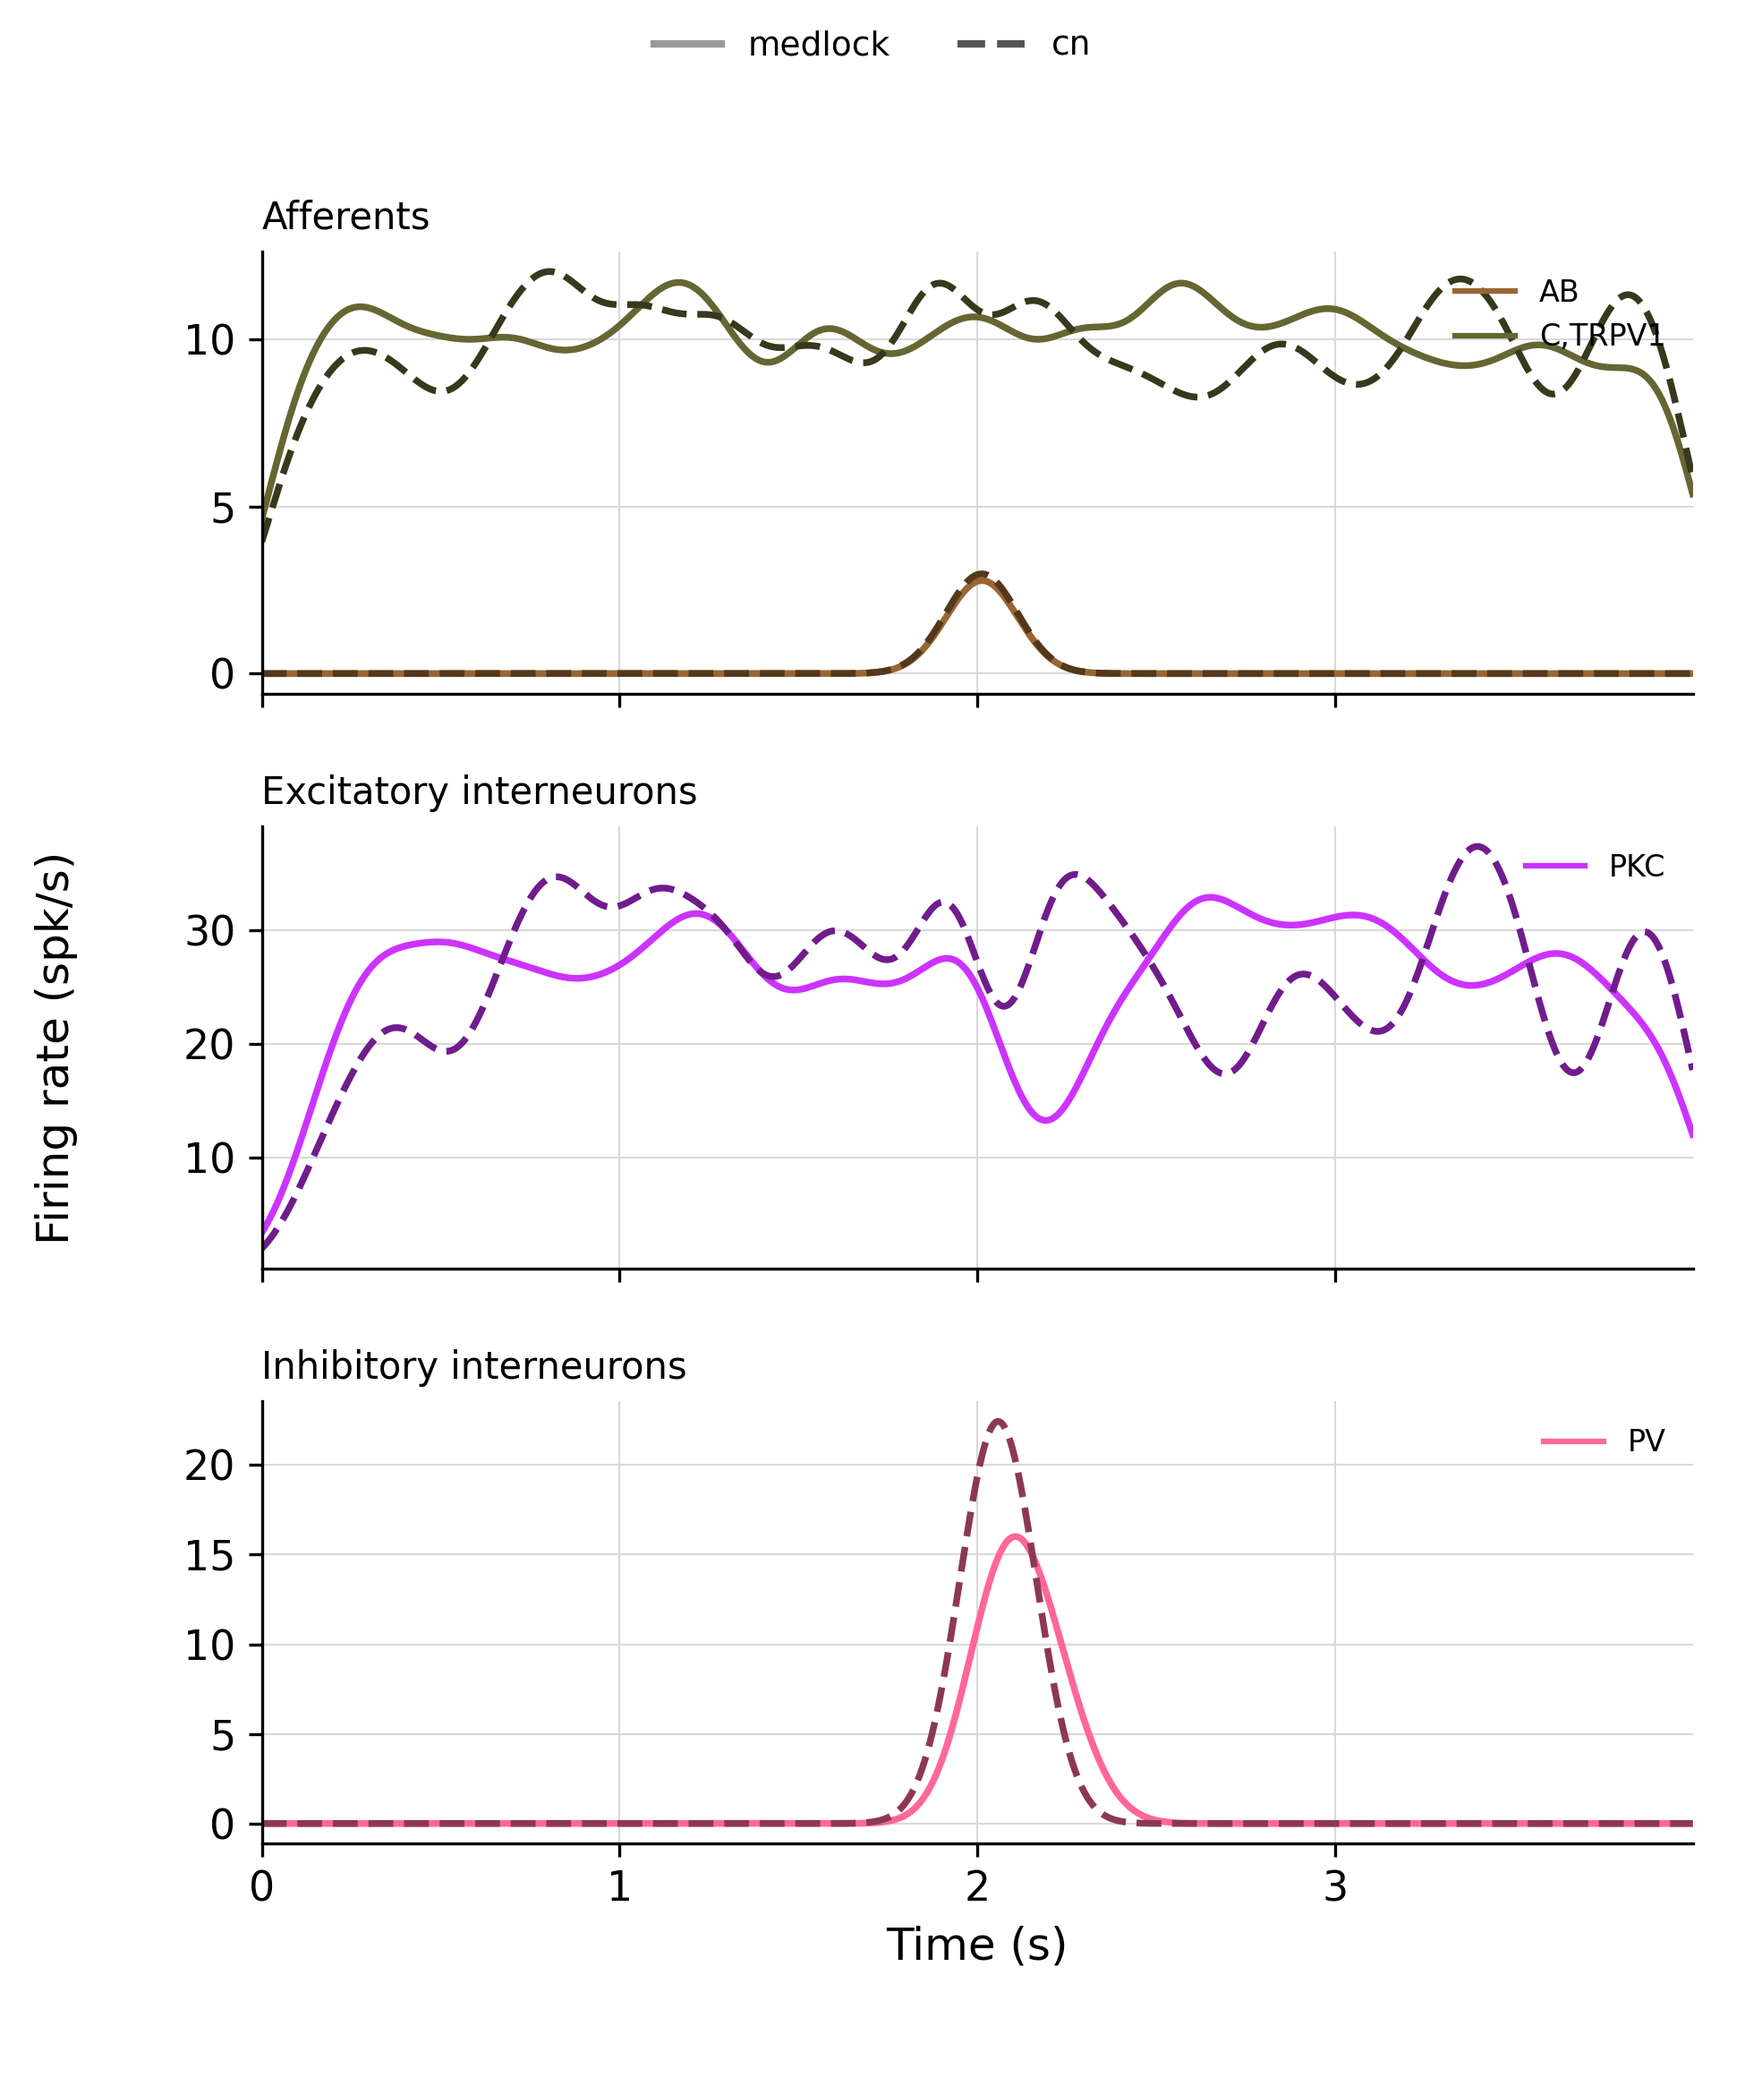
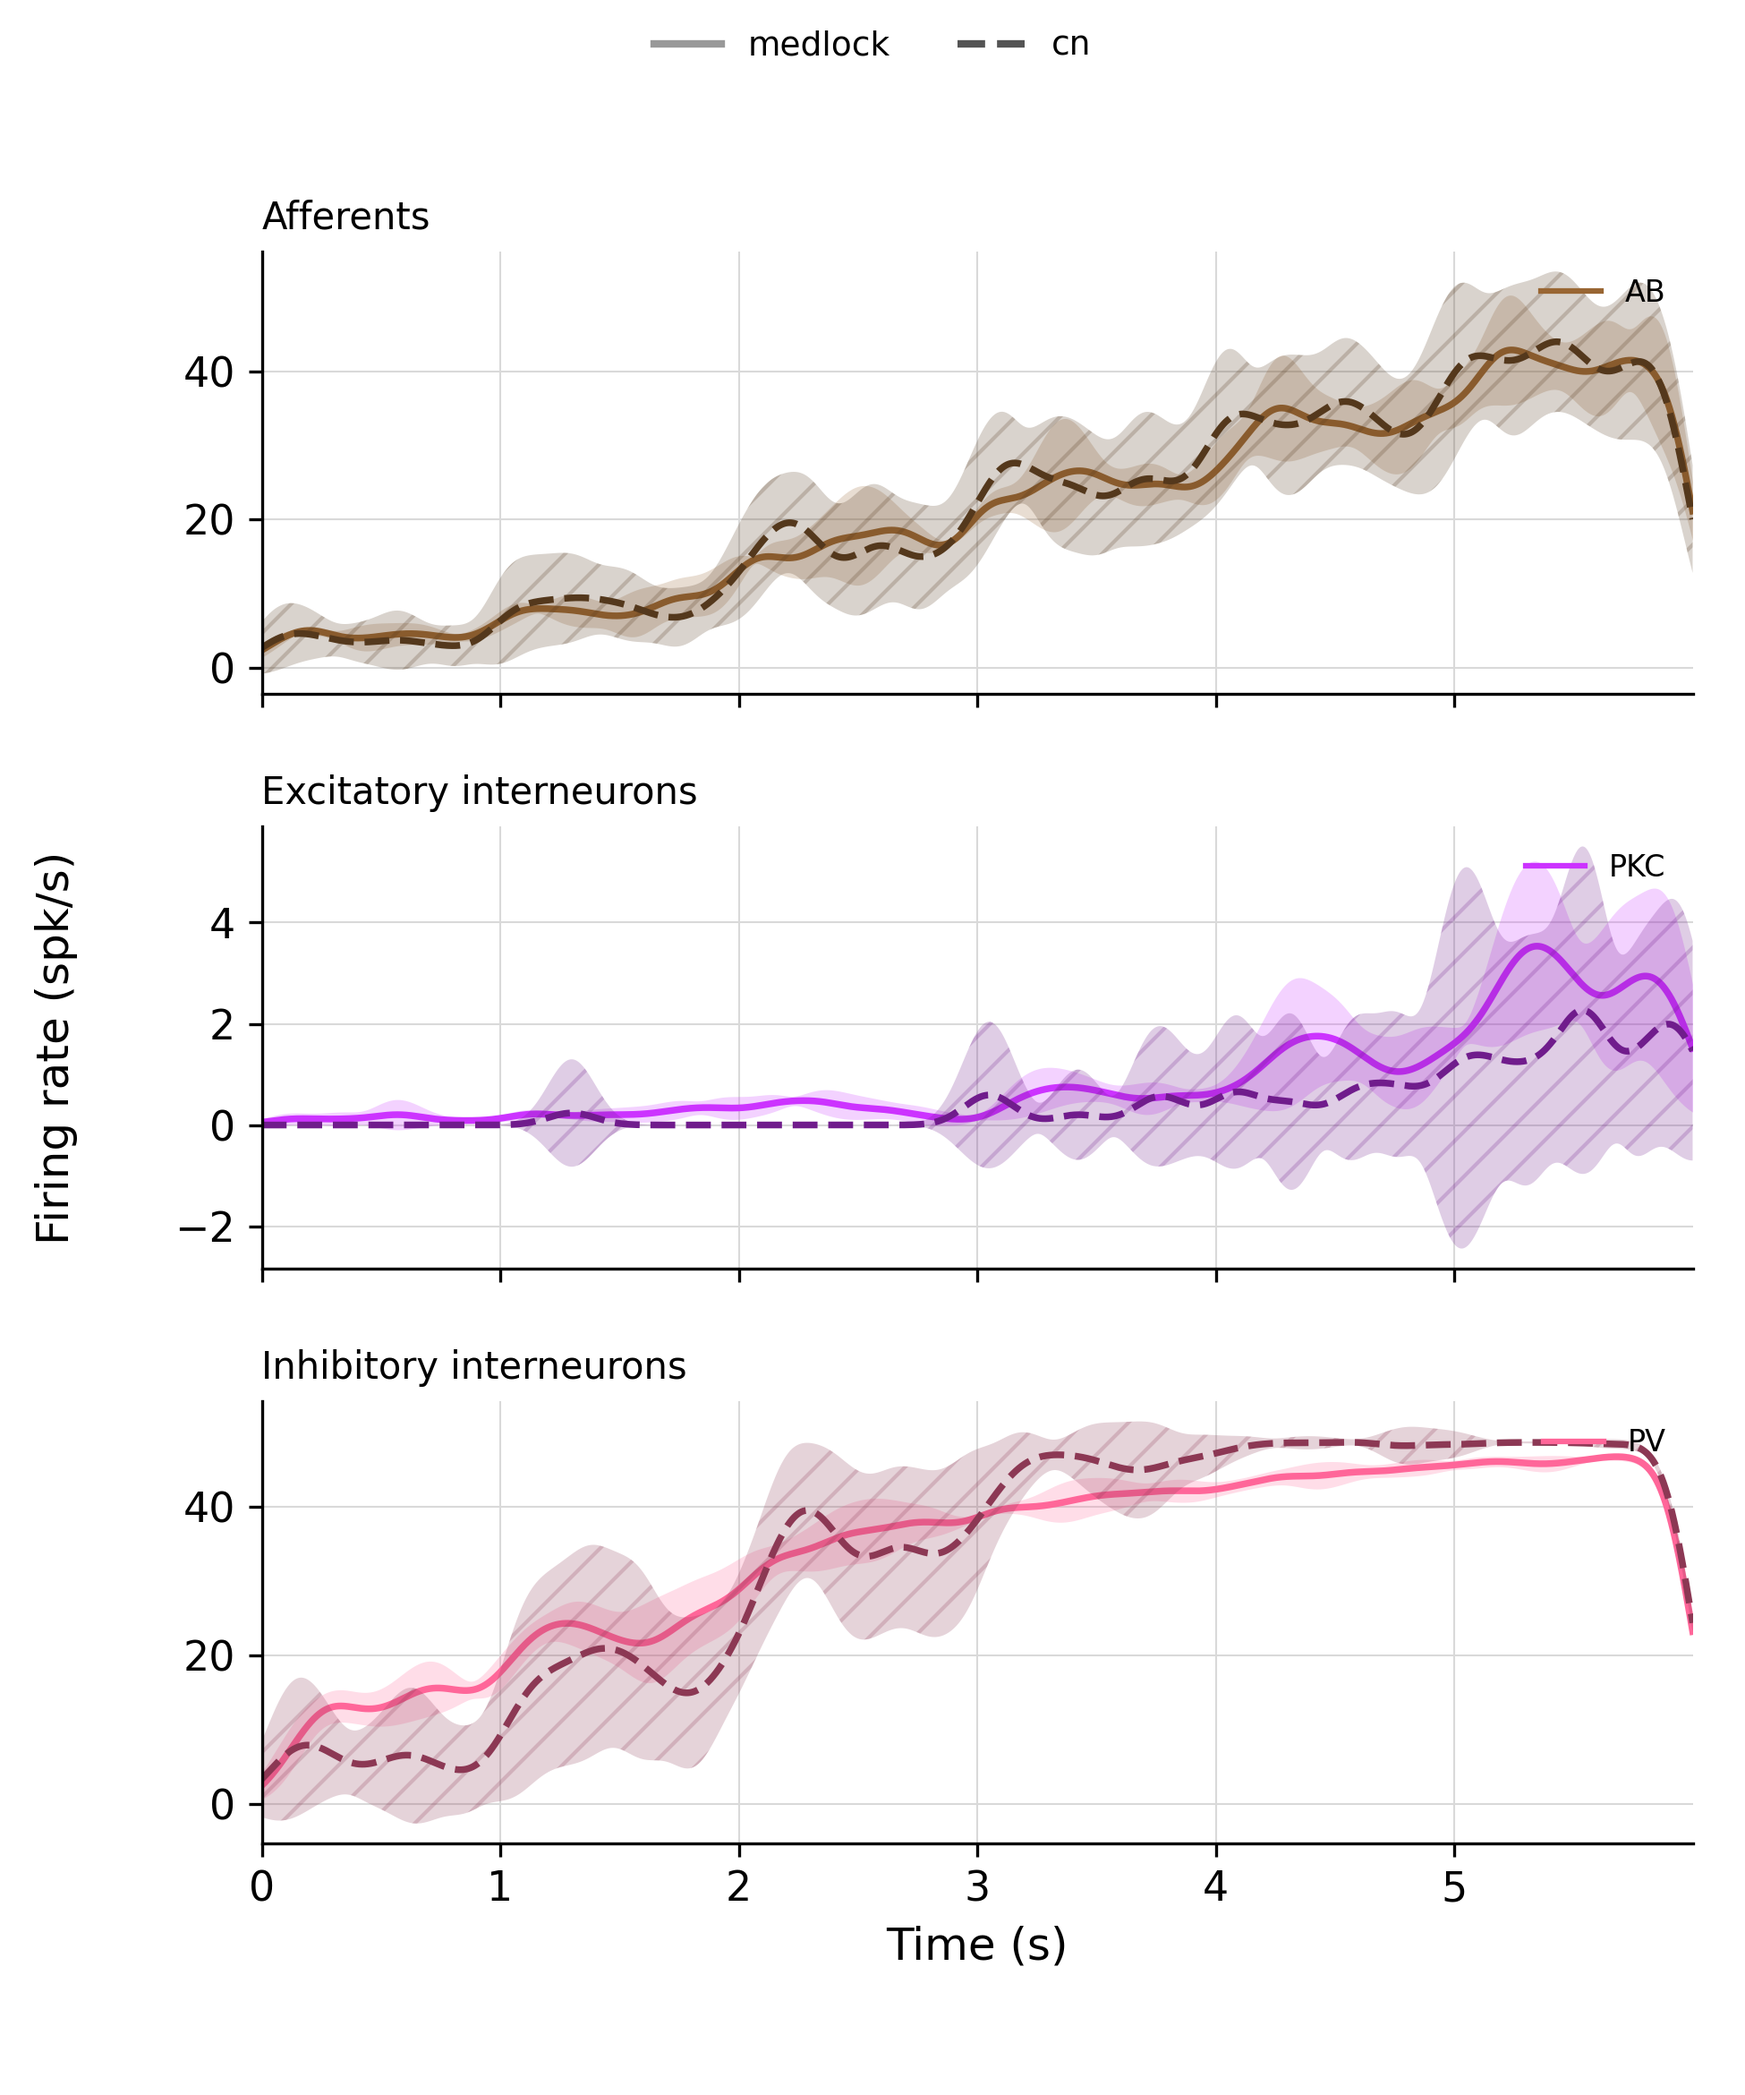
updates with PV, PKC, AB synapse fitting

diff --git a/Helper Scripts & misc. (must remove from folder to use)/FRHcode/plot_frhs.py b/Helper Scripts & misc. (must remove from folder to use)/FRHcode/plot_frhs.py
@@ -68,6 +68,14 @@ Examples
         --trials2 data/Circuit_Trial_run*_data.json --trials2-label cn \
         --autoscale --out medlock_vs_cn_frh.png
 
+    UPDATE 10/8/26 FOR SUMMING OF AFFERENT FIBERS AND FRACTION FOR MEDLOCK AFFERENTS
+    
+    python3 plot_frhs.py --no-baseline \
+    --trials data/Circuit_Trial_Medlock_run*_data.json --trials-label medlock \
+    --trials-fraction 0.2 \
+    --trials2 data/Circuit_Trial_run*_data.json --trials2-label cn \
+    --autoscale --out medlock_vs_cn_frh.png
+
 
 
 '''
@@ -86,7 +94,7 @@ from matplotlib.lines import Line2D
 
 # ---------------------------------------------------------------- constants --
 
-END_TIME = 4.0     # s, simulated duration (EndTime in FiringRateHist.m)
+END_TIME = 6.0     # s, simulated duration (EndTime in FiringRateHist.m)
 RES      = 0.025   # ms, sampling resolution of simData.t
 KWID     = 100.0   # ms, Gaussian kernel sigma (kWid in FiringRateHist.m)
 
@@ -157,6 +165,11 @@ SUBPLOT_YTICK  = [[0, 25, 50], [0, 50, 100, 150], [0, 25, 50, 75], [0, 25, 50]]
 # pops (above) aren't all present. E.g. some sim configs never split Ab into
 # SAI/SAII and just save a single 'Ab' population.
 GROUP_ALT_POPS = {'AB': ['Ab']}
+
+# Groups whose spikes are summed across all cells into one combined spike
+# train (as a downstream synapse would receive them), smoothed once, and
+# reported as the TOTAL rate rather than the per-cell average.
+SUMMED_GROUPS = {'AB', 'C,TRPV1'}
 
 
 def resolve_pops(name, pops, have):
@@ -298,19 +311,32 @@ def kernel_psth(psth, g):
     trimmed = full[half - 1: len(full) - half + 1]
     return trimmed[:len(psth)]
 
+    '''Return (trace, n_cells, mean_rate) for one group of populations.
 
-def compute_trace(spkt, spkid, gids, t, g, end_time=END_TIME):
+    summed=False: binarized PSTH, scaled to the mean per-cell rate
+                  (original Medlock pipeline).
+    summed=True : every spike from every cell counted (coincident spikes
+                  kept), smoothed once, scaled to the TOTAL rate of all
+                  cells combined.
+    '''
+def compute_trace(spkt, spkid, gids, t, g, end_time=END_TIME, summed=False, fraction=1.0):
     '''Return (trace, n_cells, mean_rate) for one group of populations.'''
     times = spkt[np.isin(spkid, gids)]
-
     counts, _ = np.histogram(np.sort(times), bins=t)
-    psth = (counts > 0).astype(float)          # PSTH_.m binarisation
+    
+    if summed:
+        psth = counts.astype(float)                # keep every spike
+    else:
+        psth = (counts > 0).astype(float)          # PSTH_.m binarisation
 
     k = kernel_psth(psth, g)
     k[np.isnan(k)] = 0.0
 
     n_cells = len(gids)
-    fr_neuron = psth.sum() / end_time / n_cells   # spk/s per neuron
+    denom = 1 if summed else n_cells
+    fr_neuron = psth.sum() / end_time / denom   # spk/s per neuron
+    if summed:
+        fr_neuron *= fraction
     mk = k.mean()
     scale = fr_neuron / mk if (mk != 0.0 and np.isfinite(mk)) else 0.0
     if not np.isfinite(scale):
@@ -343,6 +369,17 @@ def main():
     ap.add_argument('--trials2-label', default=None,
                     help='legend label for the second trial-average line '
                          '(default: "trial avg 2 (n=N)")')
+
+    for flag, what in [('--baseline-fraction', 'the baseline'),
+                       ('--data-fraction',     'every --data file'),
+                       ('--trials-fraction',   'the --trials files'),
+                       ('--trials2-fraction',  'the --trials2 files')]:
+        ap.add_argument(flag, type=float, default=1.0,
+                        help='multiply summed groups (%s) by this for %s, '
+                             'e.g. 0.2 for a 20%% connection probability '
+                             '(default 1.0 = full total)'
+                             % (', '.join(sorted(SUMMED_GROUPS)), what))
+    
     ap.add_argument('--baseline', default=BASELINE,
                     help='reference run, always plotted solid (default: %s)'
                          % BASELINE)
@@ -387,7 +424,7 @@ def main():
         plan.append((args.baseline,
                      args.baseline_label
                      or '%s (baseline)' % run_label(args.baseline),
-                     BASELINE_STYLE))
+                     BASELINE_STYLE, args.baseline_fraction))
 
     for i, path in enumerate(args.data):
         if not args.no_baseline and \
@@ -396,8 +433,7 @@ def main():
             continue
         plan.append((path,
                      args.labels[i] if args.labels else run_label(path),
-                     COMPARE_STYLES[i % len(COMPARE_STYLES)]))
-
+                     COMPARE_STYLES[i % len(COMPARE_STYLES)], args.data_fraction))
     if not plan and not args.trials and not args.trials2:
         print('ERROR: no runs to plot -- pass files to --data, --trials, '
               'or --trials2', file=sys.stderr)
@@ -405,7 +441,7 @@ def main():
 
     # ---- load every run ---------------------------------------------------
     runs = []
-    for path, label, style in plan:
+    for path, label, style, frac in plan:
         try:
             spkt, spkid, t, gid_map, labels = load_sim(path)
         except RuntimeError as err:
@@ -432,6 +468,7 @@ def main():
             'gids':  gid_map,
             'have':  have,
             'style': style,
+            'frac':  frac,
         })
 
     # ---- load every trial file (repeated trials of ONE condition) ---------
@@ -605,7 +642,7 @@ def main():
                 continue
             gids = np.concatenate([r['gids'][p] for p in use_pops])
             trace, n_cells, mean_rate = compute_trace(
-                r['spkt'], r['spkid'], gids, r['t'], g, args.end_time)
+                r['spkt'], r['spkid'], gids, r['t'], g, args.end_time, summed=(name in SUMMED_GROUPS), fraction=r['frac'])
             print('%-14s %-9s %5d %12.3f %12.3f'
                   % (r['label'], name, n_cells, mean_rate, trace.max()))
 
@@ -625,7 +662,7 @@ def main():
                     continue
                 gids = np.concatenate([tr['gids'][p] for p in use_pops])
                 trace, n_cells, mean_rate = compute_trace(
-                    tr['spkt'], tr['spkid'], gids, tr['t'], g, args.end_time)
+                    tr['spkt'], tr['spkid'], gids, tr['t'], g, args.end_time, summed=(name in SUMMED_GROUPS),  fraction=args.trials_fraction)
                 traces.append(trace)
                 mean_rates.append(mean_rate)
 
@@ -660,7 +697,7 @@ def main():
                     continue
                 gids = np.concatenate([tr['gids'][p] for p in use_pops])
                 trace, n_cells, mean_rate = compute_trace(
-                    tr['spkt'], tr['spkid'], gids, tr['t'], g, args.end_time)
+                    tr['spkt'], tr['spkid'], gids, tr['t'], g, args.end_time, summed=(name in SUMMED_GROUPS),  fraction=args.trials2_fraction)
                 traces.append(trace)
                 mean_rates.append(mean_rate)
 

diff --git a/netParams_mechanical_cn.py b/netParams_mechanical_cn.py
@@ -92,16 +92,16 @@ else:
 
 # below used for testing different values of Ab input to make synapse strength
 
-spkt_Ab_testing_30 = make_poisson_pop(rate=25, n_cells=_nAb, t_start=0, t_stop=2000, seed_base=_seed*30)
-spkt_Ab_testing_20 = make_poisson_pop(rate=20, n_cells=_nAb, t_start=2000, t_stop=4000, seed_base=_seed*20)
-spkt_Ab_testing_10 = make_poisson_pop(rate=15, n_cells=_nAb, t_start=4000, t_stop=6000, seed_base=_seed*10)
-spkt_Ab_testing_5 = make_poisson_pop(rate=10, n_cells=_nAb, t_start=6000, t_stop=8000, seed_base=_seed*5)
-spkt_Ab_testing_2 = make_poisson_pop(rate=5, n_cells=_nAb, t_start=8000, t_stop=10000, seed_base=_seed*2)
-spkt_Ab_testing_1 = make_poisson_pop(rate=2, n_cells=_nAb, t_start=10000, t_stop=12000, seed_base=_seed*2)
+spkt_Ab_testing_30 = make_poisson_pop(rate=1, n_cells=_nAb, t_start=0, t_stop=1000, seed_base=_seed*30)
+spkt_Ab_testing_20 = make_poisson_pop(rate=2, n_cells=_nAb, t_start=1000, t_stop=2000, seed_base=_seed*20)
+spkt_Ab_testing_10 = make_poisson_pop(rate=4, n_cells=_nAb, t_start=2000, t_stop=3000, seed_base=_seed*10)
+spkt_Ab_testing_5 = make_poisson_pop(rate=6, n_cells=_nAb, t_start=3000, t_stop=4000, seed_base=_seed*5)
+spkt_Ab_testing_2 = make_poisson_pop(rate=8, n_cells=_nAb, t_start=4000, t_stop=5000, seed_base=_seed*2)
+spkt_Ab_testing_1 = make_poisson_pop(rate=10, n_cells=_nAb, t_start=5000, t_stop=6000, seed_base=_seed*2)
 
 
-blocks = [spkt_Ab_testing_30, spkt_Ab_testing_20, spkt_Ab_testing_10,
-          spkt_Ab_testing_5, spkt_Ab_testing_2, spkt_Ab_testing_1]
+blocks = [spkt_Ab_testing_1, spkt_Ab_testing_2, spkt_Ab_testing_5,
+          spkt_Ab_testing_10, spkt_Ab_testing_20, spkt_Ab_testing_30]
 spkt_Ab_staircase = [sum(trains, []) for trains in zip(*blocks)]
 
 # moves dictionary from independent script into netParams
@@ -130,11 +130,11 @@ spkt_Ab_pulse_PKC = []
 for i in range(NUM_AB_PULSE):
     spkt_Ab_pulse_PV.append(poisson_generator(rate=AB_FIBER_RATE, t_start=A_START, t_stop=A_END, seed=None).tolist())
     spkt_Ab_pulse_PKC.append(poisson_generator(rate=AB_FIBER_RATE, t_start=A_START, t_stop=A_END, seed=None).tolist())
-netParams.popParams['Ab'] = {'cellModel': 'VecStim', 'numCells': _nAb, 'spkTimes': spkt_Ab_pulse_PV}
+#netParams.popParams['Ab'] = {'cellModel': 'VecStim', 'numCells': _nAb, 'spkTimes': spkt_Ab_pulse_PV}
 #netParams.popParams['Ab_PKC'] = {'cellModel': 'VecStim', 'numCells': _nAb, 'spkTimes': spkt_Ab_pulse_PKC}
 
-#netParams.popParams['Ab'] = {'cellModel': 'VecStim', 'numCells': _nAb, 'spkTimes': spkt_Ab_staircase}
-netParams.popParams['C_PEP'] = {'cellModel': 'VecStim', 'numCells': NUM_C_FIBERS, 'spkTimes': spkt_C}
+netParams.popParams['Ab'] = {'cellModel': 'VecStim', 'numCells': _nAb, 'spkTimes': spkt_Ab_staircase}
+#netParams.popParams['C_PEP'] = {'cellModel': 'VecStim', 'numCells': NUM_C_FIBERS, 'spkTimes': spkt_C}
 #netParams.popParams['C_PEP'] = {'cellModel': 'VecStim', 'numCells': NUM_C_FIBERS, 'spkTimes': spkt_C_pulse}
 netParams.popParams['PV'] = {'cellType': 'IN', 'numCells': 1} # PV+ neurons (inhibitory)
 netParams.popParams['PKC'] = {'cellType': 'EXdl', 'numCells': 1}

diff --git a/cfg_mechanical_cn.py b/cfg_mechanical_cn.py
@@ -9,7 +9,7 @@ cfg = specs.SimConfig()
 
 cfg.hParams = {'celsius': 36, 'v_init': -60}
 cfg.vrest = cfg.hParams['v_init']
-cfg.duration = 4000
+cfg.duration = 6000
 
 cfg.recordStep = 0.025#25#0.025
 cfg.dt = 0.025
@@ -25,7 +25,7 @@ cfg.abInputMode = 'physiological'  # 'physiological' = SAI/SAII rate curves (def
                                     # 'poisson' = homogeneous rate-controlled drive (set by poisson_sweep.py)
  
 
-EX_SCALE = 0.17 #0.23       #  Ab -> Ex synaptic weights
+EX_SCALE = 0.195 #0.23       #  Ab -> Ex synaptic weights
 IN_SCALE = 0.4        #  Ab -> IN synaptic weights
 PV_PKC_SCALE = 0.016 #0.024  #  PV -> PKC synaptic weights
 
@@ -68,9 +68,9 @@ cfg.saveDataInclude = ['simData', 'simConfig', 'netParams', 'net']
 
 # Analysis and Plotting 
 cells = [x for x in range(0, 11, 1)]
-cfg.analysis['plotRaster'] = {'include': ['all'], 'timeRange': [0, cfg.duration],'orderInverse': True, 'saveFig': True, 'showFig': True} 
+#cfg.analysis['plotRaster'] = {'include': ['all'], 'timeRange': [0, cfg.duration],'orderInverse': True, 'saveFig': True, 'showFig': True} 
 #cfg.analysis['plotConn'] = {'includePre': ['all'], 'includePost': ['all'], 'feature': 'weight','logPlot': True, 'saveFig': True, 'showFig': True}
 # cfg.analysis['plotSpikeHist'] = {'include': ['eachPop'], 'timeRange': [0,cfg.duration], 'spikeHistBin': 5, 'saveFig': True, 'showFig': False}
 #cfg.analysis['plotSpikeStats'] = {'include': ['eachPop'], 'timeRange': [0,cfg.duration], 'saveFig': True, 'showFig': False}
-cfg.analysis['plotTraces'] = {'include': [11], 'timeRange': [0, cfg.duration], 'saveFig': True, 'showFig': False}
+#cfg.analysis['plotTraces'] = {'include': [11], 'timeRange': [0, cfg.duration], 'saveFig': True, 'showFig': False}
 #cfg.analysis['plot2Dnet'] = True 

diff --git a/tests_cn.py b/tests_cn.py
@@ -25,8 +25,8 @@ from spkt_gen_cn import generate_new_SPKT
 import importlib
 
 
-nRuns = 10
-SIM_DURATION = 4000  # ms
+nRuns = 20
+SIM_DURATION = 6000  # ms
 SIM_DURATION_sec = SIM_DURATION / 1000.0
 INPUT_RATE = 10
 
